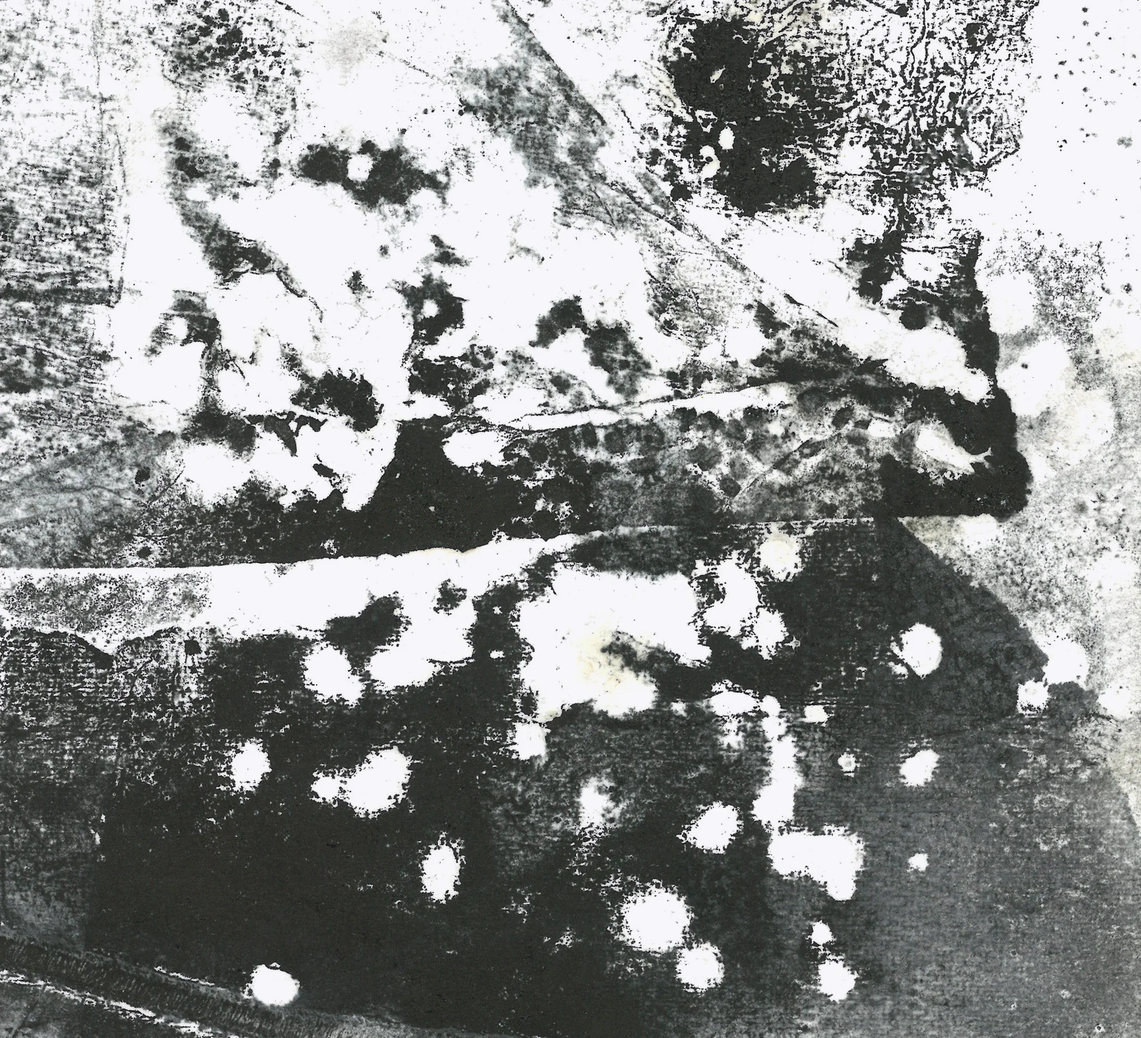
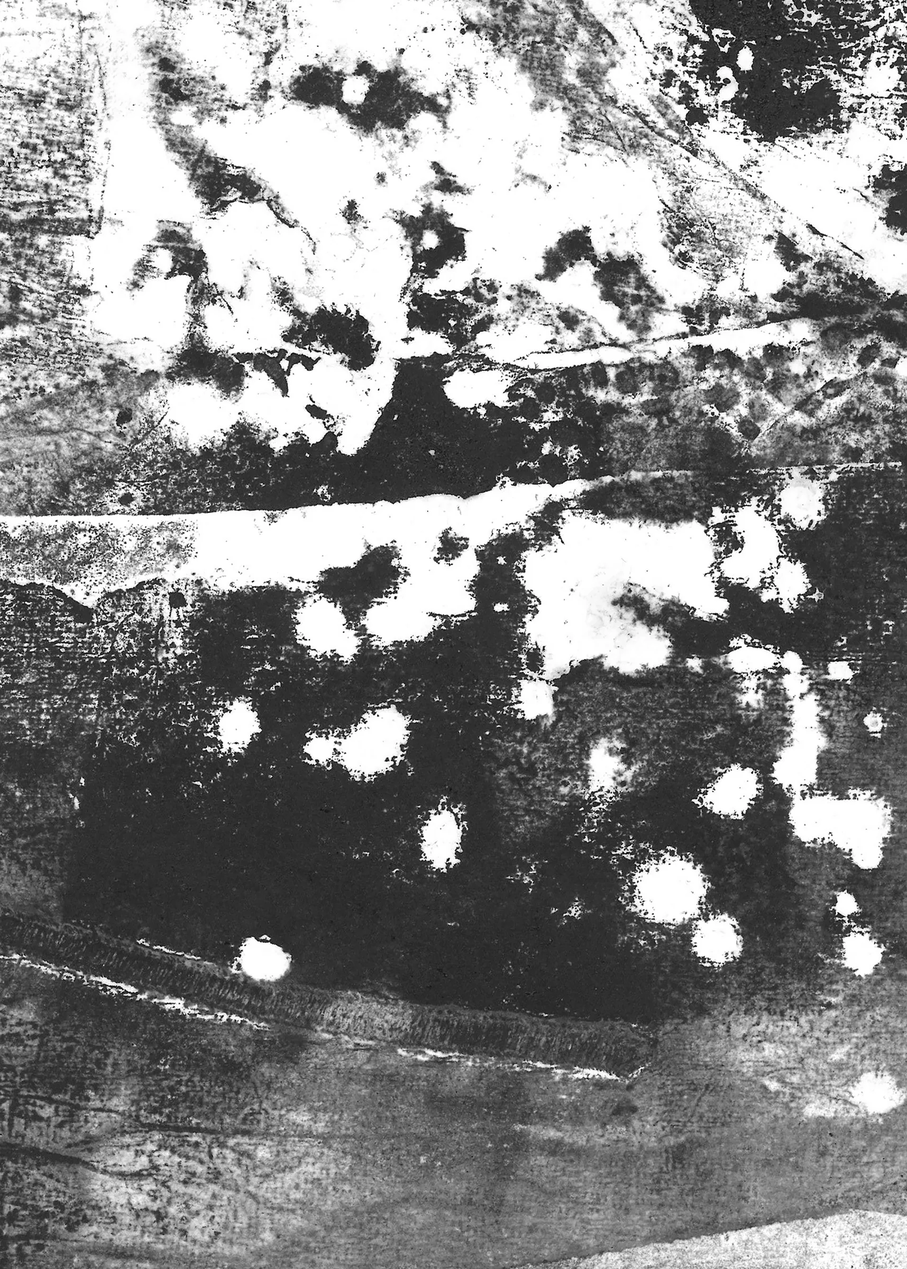
The walk in the artist's own sequence, with her crops as the regions
The works no longer go zone by zone but in one flowing order set by the
artist: 03, 06, 02, 10, 13 first, then 01, 04, 05, 12, 07, 08, 09, 11, 14,
15, 16. Every abstract print is a cover: the artist's own crop (from
../works/crops/) fills the screen under a line of text with the veil, then
gives way to the label. The first cover of each zone carries the zone's
number, name and theme line and is followed by its wall text; the other
covers carry one sentence from that text. 13 Rust and Water joins as a
region-only work from her crop. The bar's zone name follows the work on
screen.

Claude-Session: https://claude.ai/code/session_017syLoBPernmDiKrEhQeB1T

diff --git a/src/main.js b/src/main.js
@@ -4,7 +4,7 @@ import { gsap } from 'gsap'
 import { ScrollTrigger } from 'gsap/ScrollTrigger'
 
 import './style.css'
-import { site, zones, works, details } from './content.js'
+import { site, zones, works, details, coverLines } from './content.js'
 import meta from './works-meta.json'
 import * as scenes from './scenes.js'
 
@@ -61,54 +61,50 @@ function label(w) {
 }
 
 /**
- * The walk: one screen, one work. Two ways of showing a work, by what it is,
- * and each work is shown in one of them only:
+ * The walk: one screen, one work, in one flowing sequence set by the artist
+ * rather than zone by zone. Two ways of showing a work, by what it is, and
+ * each work is shown in one of them only:
  *
- * - figurative prints (a tower, a facade, a figure, an organ) are shown
- *   whole, as large as the stage allows, never up close;
- * - abstract prints (salt, strokes, grooves) are shown only as a `detail`,
- *   one region at scan resolution, edge to edge, never whole.
+ * - the abstract prints (strokes, grooves, salt, rust) are `cover`s: the
+ *   artist's own crop of the print fills the screen as the ground for a
+ *   line of text, edges falling into the wall, then gives way to the work's
+ *   label. The first cover of each zone carries the zone's number, name and
+ *   theme line and is followed by the zone's wall text (`chapter`); the
+ *   others carry one sentence from that text (`line`);
+ * - the figurative prints (a tower, a facade, a figure, an organ) are shown
+ *   whole, as large as the stage allows, never up close, each with its
+ *   zone's logic of the line meeting it: ruled around it (trace/frame) or
+ *   standing it on a ground line (trace/rise); bent aside by it sliding in
+ *   (push) or pressed into a hollow (sag); salt grains settling around it
+ *   (crystallize) or into the wall's salt line beneath it (saltline).
  *
- * Each zone opens on a `cover`: its first work, a region, fills the screen
- * as the ground for the zone's number, name and theme line, as the sealed
- * plate does for the title at the entrance; then the title gives way to the
- * work's own label. Each zone keeps its own logic of the line meeting the work: ruled around
- * it (trace) or standing it on a ground line (rise) in the drawn zone; bent
- * aside by a work sliding in (push) or pressed into a hollow (sag) in the
- * pressed zone; salt grains settling around it (crystallize) or into the
- * wall's salt line beneath it (saltline) in the deposited zone. The kind
- * names a choreography in scenes.js.
+ * The kind names a choreography in scenes.js. The bar's zone name follows
+ * the work on screen.
  */
-const choreography = {
-  drawn: [
-    { kind: 'cover', ids: ['03'] },
-    { kind: 'trace', ids: ['01'], mode: 'frame' },
-    { kind: 'trace', ids: ['02'], mode: 'rise' },
-    { kind: 'trace', ids: ['04'], mode: 'frame' },
-    { kind: 'trace', ids: ['05'], mode: 'rise' },
-  ],
-  pressed: [
-    { kind: 'cover', ids: ['06'] },
-    { kind: 'push', ids: ['07'], side: 'left' },
-    { kind: 'push', ids: ['08'], side: 'right' },
-    { kind: 'sag', ids: ['09'] },
-  ],
-  deposited: [
-    { kind: 'cover', ids: ['10'] },
-    { kind: 'saltline', ids: ['11'] },
-    { kind: 'detail', ids: ['12'], salt: true },
-    { kind: 'crystallize', ids: ['13'] },
-    { kind: 'saltline', ids: ['14'] },
-    { kind: 'crystallize', ids: ['15'] },
-    { kind: 'saltline', ids: ['16'] },
-  ],
-}
+const choreography = [
+  { kind: 'cover', ids: ['03'], chapter: true },
+  { kind: 'cover', ids: ['06'], chapter: true },
+  { kind: 'trace', ids: ['02'], mode: 'rise' },
+  { kind: 'cover', ids: ['10'], chapter: true },
+  { kind: 'cover', ids: ['13'] },
+  { kind: 'trace', ids: ['01'], mode: 'frame' },
+  { kind: 'trace', ids: ['04'], mode: 'frame' },
+  { kind: 'trace', ids: ['05'], mode: 'rise' },
+  { kind: 'cover', ids: ['12'] },
+  { kind: 'push', ids: ['07'], side: 'left' },
+  { kind: 'push', ids: ['08'], side: 'right' },
+  { kind: 'sag', ids: ['09'] },
+  { kind: 'saltline', ids: ['11'] },
+  { kind: 'crystallize', ids: ['14'] },
+  { kind: 'saltline', ids: ['15'] },
+  { kind: 'crystallize', ids: ['16'] },
+]
 
 const REGION = new Set(['detail', 'cover'])
 const beatId = (beat) => `${REGION.has(beat.kind) ? 'detail' : 'beat'}-${beat.ids.join('-')}`
 
 /* works shown only as a region; nothing on the site shows them whole */
-const detailOnly = new Set(['00', ...Object.values(choreography).flat().filter((b) => REGION.has(b.kind)).flatMap((b) => b.ids)])
+const detailOnly = new Set(['00', ...choreography.filter((b) => REGION.has(b.kind)).flatMap((b) => b.ids)])
 
 const workById = Object.fromEntries(works.map((w) => [w.id, w]))
 const SALT_KINDS = new Set(['crystallize', 'saltline', 'evaporate', 'drift'])
@@ -143,10 +139,15 @@ function detailScene(beat) {
 }
 
 /** A zone's cover: its first region fills the screen under the zone's number, name and theme line. */
-function coverScene(beat, zoneKey) {
+function coverScene(beat) {
   const [id] = beat.ids
   const w = workById[id]
-  const z = zones[zoneKey]
+  const z = zones[w.zone]
+  const center = beat.chapter
+    ? `<span class="cover__numeral">${t(z.numeral)}</span>
+        <h2 class="cover__name">${t(z.name)}</h2>
+        <p class="cover__theme">${t(z.theme)}</p>`
+    : `<p class="cover__theme cover__theme--alone">${t(coverLines[id] ?? z.theme)}</p>`
   return `<section class="cover scene" id="${beatId(beat)}">
     <div class="stage">
       ${detailFigure(id, 'aria-hidden="true"')}
@@ -154,9 +155,7 @@ function coverScene(beat, zoneKey) {
       <div class="scrim" aria-hidden="true"></div>
       <svg class="ink" aria-hidden="true"></svg>
       <div class="cover__center">
-        <span class="cover__numeral">${t(z.numeral)}</span>
-        <h2 class="cover__name">${t(z.name)}</h2>
-        <p class="cover__theme">${t(z.theme)}</p>
+        ${center}
       </div>
       <div class="cover__after label">
         <span class="label__no">${t(site.detail)} · ${id}</span>
@@ -168,8 +167,8 @@ function coverScene(beat, zoneKey) {
   </section>`
 }
 
-function beatScene(beat, zoneKey) {
-  if (beat.kind === 'cover') return coverScene(beat, zoneKey)
+function beatScene(beat) {
+  if (beat.kind === 'cover') return coverScene(beat)
   if (beat.kind === 'detail') return detailScene(beat)
   const ws = beat.ids.map((id) => workById[id])
   const layer = SALT_KINDS.has(beat.kind)
@@ -205,10 +204,14 @@ function intro(key) {
   </section>`
 }
 
-/** A zone: its cover first, then the wall text, then the rest of the walk. */
-function chapter(key) {
-  const [first, ...rest] = choreography[key]
-  return zone(key, beatScene(first, key) + intro(key) + rest.map((beat) => beatScene(beat, key)).join(''))
+/** The walk: each beat wrapped in its work's zone; a chapter cover is followed by the zone's wall text. */
+function walk() {
+  return choreography
+    .map((beat) => {
+      const key = workById[beat.ids[0]].zone
+      return zone(key, beatScene(beat) + (beat.chapter ? intro(key) : ''))
+    })
+    .join('')
 }
 
 function zone(key, inner) {
@@ -259,9 +262,7 @@ document.querySelector('#app').innerHTML = `
     <section class="preface"><div class="prose reveal">${t(site.preface, 'p')}</div></section>`,
   )}
 
-  ${chapter('drawn')}
-  ${chapter('pressed')}
-  ${chapter('deposited')}
+  ${walk()}
   ${zone(
     'synthesis',
     `<section class="scene scene--synthesis" id="synthesis">
@@ -331,7 +332,7 @@ function scrollToY(y, duration = 1.6) {
 
 const triggers = {}
 triggers['00'] = scenes.cover(document.querySelector('.hero'), { hero: true }).st
-for (const beat of Object.values(choreography).flat()) {
+for (const beat of choreography) {
   const el = document.querySelector(`#${beatId(beat)}`)
   const seed = Number(beat.ids[0]) * 7919
   const scene =

diff --git a/src/content.js b/src/content.js
@@ -181,4 +181,21 @@ export const details = {
     zh: '每一圈边缘，都是一滴水蒸发的路径。形状由缺席决定。',
     en: 'Each ring is the path of one drop evaporating. The shape was decided by absence.',
   },
+  '13': {
+    zh: '铁和水都走了，留下的是锈走过的路。',
+    en: 'Iron and water have both gone; what stays is the path the rust took.',
+  },
+}
+
+// Theme lines for the covers that do not open a zone: one sentence from the
+// zone's wall text, so the cover still speaks in the exhibition's own words.
+export const coverLines = {
+  '13': {
+    zh: '没有一条出自人手，形状由蒸发的路径决定。',
+    en: 'None came from a hand; their shape was set by the path of evaporation.',
+  },
+  '12': {
+    zh: '水走了，盐结晶在水最后停留的边缘。',
+    en: 'The water left; the salt crystallized along the edge where it last stood.',
+  },
 }

diff --git a/src/style.css b/src/style.css
@@ -462,6 +462,19 @@ button {
   line-height: 1.2;
 }
 
+.cover__theme--alone {
+  max-width: 16em;
+  margin: 0;
+  font-size: clamp(26px, 5.4vw, 44px);
+  line-height: 1.4;
+}
+
+:root[data-lang='en'] .cover__theme--alone {
+  max-width: 15em;
+  font-size: clamp(30px, 6vw, 52px);
+  line-height: 1.12;
+}
+
 .cover__after {
   left: var(--gutter);
   right: var(--gutter);

diff --git a/scripts/prepare_images.py b/scripts/prepare_images.py
@@ -11,9 +11,12 @@ Sources, in order of preference:
 
 Each scan is cropped to the printed area plus a margin of real paper, the
 paper tone is neutralized, and a large WebP and a thumbnail are written to
-public/works. Works listed in DETAILS also get NN-detail.webp and NN-detail-thumb.webp:
-a region of the print at full scan resolution, for the detail scenes. Those
-works are shown only as that region, never whole. src/works-meta.json
+public/works.
+
+Region-only works (the abstract ones) are shown only as one region, never
+whole: NN-detail.webp and NN-detail-thumb.webp. The region comes from the
+artist's own crop in ../works/crops/NN.jpg when there is one (CROPS), or
+else is cut from the scan by the fractions in DETAILS. src/works-meta.json
 records pixel sizes, the detail region and which works are pending.
 
 Run: python scripts/prepare_images.py [NN ...]   (needs pillow, numpy; pymupdf for PDFs)
@@ -56,16 +59,20 @@ SCANS = {
 }
 
 # works without a sharp scan yet: a flat placeholder instead of a blurry image
-PENDING = {"04", "09", "11", "13", "14", "15", "16"}
+PENDING = {"04", "09", "11", "14", "15", "16"}
+
+# the artist's own crops, used as the region as they are (no scan needed)
+CROPS = {"03", "06", "10", "13"}
+CROP_DIR = SCAN_DIR / "crops"
 PLACEHOLDER = (220, 217, 210)
 PLACEHOLDER_H = 1200
 
 # work id -> detail region (x0, y0, x1, y1) as fractions of the exported image
 DETAILS = {
     "00": (0.12, 0.22, 0.92, 0.82),  # the sealed black block and the swirl above it
-    "03": (0.30, 0.12, 0.80, 0.55),  # broken black marks of the window grid
-    "06": (0.30, 0.30, 0.75, 0.68),  # thread grooves as vessels
-    "10": (0.33, 0.18, 0.97, 0.62),  # salt crystals on the dark ground
+    "03": (0.30, 0.12, 0.80, 0.55),  # broken black marks (superseded by the artist's crop)
+    "06": (0.30, 0.30, 0.75, 0.68),  # thread grooves as vessels (superseded by the artist's crop)
+    "10": (0.33, 0.18, 0.97, 0.62),  # salt crystals on the dark ground (superseded by the artist's crop)
     "12": (0.27, 0.07, 0.67, 0.47),  # salt rings, each the edge of one drop
 }
 
@@ -169,6 +176,19 @@ def export(key, img):
     return info
 
 
+def export_region(key, img, info=None):
+    """The region image and its thumbnail, from an already-cropped picture."""
+    thumb = img.copy()
+    thumb.thumbnail((THUMB, THUMB), Image.LANCZOS)
+    thumb.save(OUT / f"{key}-detail-thumb.webp", quality=78, method=6)
+    detail = img.copy()
+    detail.thumbnail((DETAIL, DETAIL), Image.LANCZOS)
+    detail.save(OUT / f"{key}-detail.webp", quality=84, method=6)
+    info = dict(info or {"w": detail.width, "h": detail.height})
+    info["detail"] = {"x": 0, "y": 0, "cw": 1, "ch": 1, "w": detail.width, "h": detail.height}
+    return info
+
+
 def placeholder(key, old):
     aspect = old["w"] / old["h"] if old else 4 / 5
     h = PLACEHOLDER_H
@@ -182,7 +202,10 @@ def main(keys):
     OUT.mkdir(parents=True, exist_ok=True)
     meta = json.loads(META.read_text()) if META.exists() else {}
     for key in keys:
-        if key in PENDING:
+        if key in CROPS:
+            img = Image.open(CROP_DIR / f"{key}.jpg").convert("RGB")
+            meta[key] = export_region(key, img, meta.get(key) if key in SCANS else None)
+        elif key in PENDING:
             meta[key] = placeholder(key, meta.get(key))
         else:
             if key in SCANS:

diff --git a/README.md b/README.md
@@ -1,7 +1,7 @@
 # 界：析出的城市 · Boundary: The Deposited City
 
 The QR-code companion site for architect Wenlu Guo's exhibition.
-A single vertical scroll walks the same loop as the gallery: prologue, three zones of lines (drawn, pressed, deposited), the synthesis, the coda and the exit. One screen, one work: figurative works are shown whole, as large as the screen allows, and never up close; abstract works are shown only as one region at scan resolution, and never whole. The entrance and each zone open on such a region filling the screen under the title.
+A single vertical scroll: prologue, the works in one flowing sequence set by the artist (the bar names the zone of the work on screen; each zone's wall text follows its first work), the synthesis, the coda and the exit. One screen, one work: figurative works are shown whole, as large as the screen allows, and never up close; abstract works are shown only as the artist's own crop, filling the screen under a line of text, and never whole.
 
 Live: https://leonine2021.github.io/deposited-city/
 
@@ -17,5 +17,5 @@ Pushing to `main` builds the site and deploys it to GitHub Pages (`.github/workf
 ## Content
 
 - `src/content.js` holds every visitor-facing text, in Chinese and English.
-- `public/works/` holds the artwork images, generated by `scripts/prepare_images.py` (needs `pillow`, `numpy`) from the high-resolution scans in `../works/`. The script maps each scan to its work number and rotation; works without a sharp scan yet get a flat placeholder, and the abstract works get a `-detail` crop (plus thumbnail) at scan resolution; those are the only images of them the site shows.
+- `public/works/` holds the artwork images, generated by `scripts/prepare_images.py` (needs `pillow`, `numpy`) from the high-resolution scans in `../works/`. The script maps each scan to its work number and rotation; works without a sharp scan yet get a flat placeholder; the abstract works get a `-detail` image (plus thumbnail) from the artist's crop in `../works/crops/`, the only image of them the site shows.
 - `src/scenes.js` holds the scroll scenes, one per beat; `src/main.js` sets the order of beats (the choreography).
